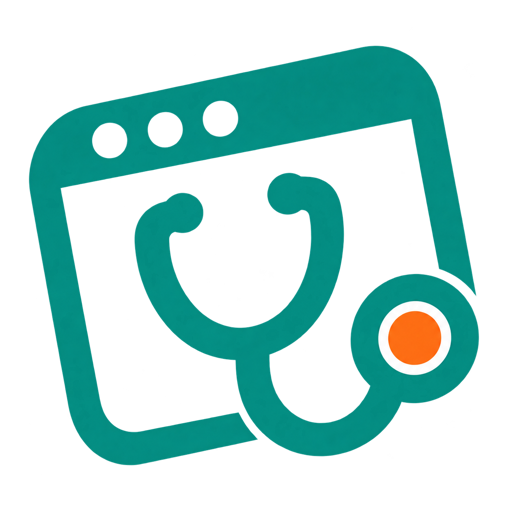
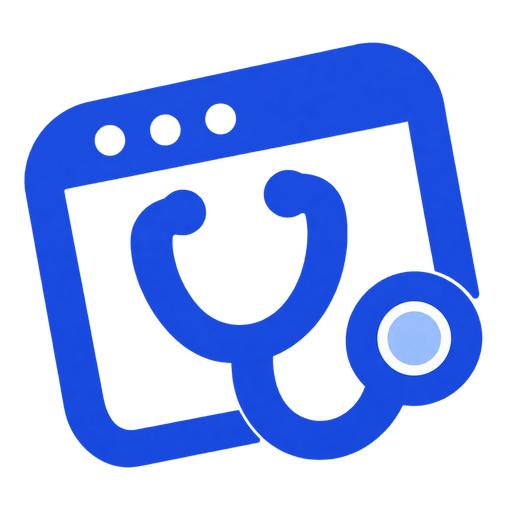
Refresh brand assets and update studio and policy copy

diff --git a/src/data/ja.ts b/src/data/ja.ts
@@ -1,5 +1,6 @@
 import { checklistStoreUrls } from '../data/checklist';
 import { recorderStoreUrls } from '../data/recorder';
+import { operator } from './operator';
 import type { SiteCopy, TextPart } from './types';
 
 const mobile: TextPart = { br: 'mobile' };
@@ -11,7 +12,8 @@ const newTab = '（新しいタブで開く）';
 
 const contactBlock: TextPart[] = [
   '運営：There There Studio（There There）', br,
-  '所在地：茨城県つくば市', br,
+  `所在地：${operator.address}`, br,
+  '電話：', link(operator.phoneHref, operator.phone), br,
   'メール：', mail, br,
   'フォーム：', link('/#contact', 'お問い合わせ'),
 ];
@@ -51,13 +53,13 @@ export const ja = {
     noscript: '送信後、確認画面に移動します。',
   },
   home: {
-    metaTitle: 'There There Studio — つくばのWEBアプリ開発スタジオ',
-    metaDescription: '茨城県つくば市のWEBアプリ開発スタジオ、There There Studio。怪獣スタンプ、レコーダー維新、チェックリスト維新など、暮らしのそばで使いたくなるアプリをつくっています。',
+    metaTitle: 'There There Studio — WEBアプリ開発スタジオ',
+    metaDescription: 'WEBアプリ開発スタジオ、There There Studio。怪獣スタンプ、レコーダー維新、チェックリスト維新など、暮らしのそばで使いたくなるアプリをつくっています。',
     heroTagline: ['暮らしのそばに、', mobile, '使いたくなるアプリを。'],
-    heroDescription: '茨城県つくば市のWEBアプリ開発スタジオ。',
+    heroDescription: 'WEBアプリ開発スタジオ。',
     worksAria: '制作したアプリを見る',
     about: [
-      ['わたしたちは、茨城県つくば市を拠点に、', desktop, '日々の暮らしを少し良くする、', desktop, '使いたくなるアプリをつくる', desktop, '小さな開発スタジオです。'],
+      ['わたしたちは、', desktop, '日々の暮らしを少し良くする、', desktop, '使いたくなるアプリをつくる', desktop, '小さな開発スタジオです。'],
       ['お店を営むこと。音楽を楽しむこと。', br, '自分たちの経験から生まれる気づきを、', desktop, '使う人に寄り添う道具に変えていきます。'],
     ],
     works: [
@@ -186,9 +188,9 @@ export const ja = {
     metaDescription: 'レコーダー維新のプライバシーポリシー。マイクの利用、録音データの端末内保存、共有、バックアップ、データ削除について説明します。',
     label: 'レコーダー維新 / Privacy Policy',
     title: 'プライバシーポリシー',
-    updated: '制定日：2026年9月19日／最終更新日：2026年9月22日',
+    updated: '制定日：2026年9月19日／最終更新日：2026年11月10日',
     sections: [
-      { blocks: [{ p: ['There There（屋号・表示名：There There Studio、所在地：茨城県つくば市。以下「当スタジオ」）は、iOSアプリ「レコーダー維新」（以下「本アプリ」）における情報の取り扱いを、以下のとおり定めます。チェックリスト維新は、', link('/checklist/privacy', '別のプライバシーポリシー'), 'で定めています。'] }] },
+      { blocks: [{ p: [`There There（屋号・表示名：There There Studio、所在地：${operator.address}。以下「当スタジオ」）は、iOSアプリ「レコーダー維新」（以下「本アプリ」）における情報の取り扱いを、以下のとおり定めます。チェックリスト維新は、`, link('/checklist/privacy', '別のプライバシーポリシー'), 'で定めています。'] }] },
       { heading: '1. 基本方針', blocks: [{ p: ['本アプリは、録音・音声処理・再生を端末内で行うパーソナル音声レコーダーです。アカウント登録は不要です。本アプリが録音データを当スタジオのサーバーに自動送信することはありません。'] }] },
       { heading: '2. マイクへのアクセス', blocks: [
         { p: ['録音とリアルタイム・モニタリングのため、利用者の許可を得てマイクにアクセスします。マイクからの音声は、端末内でゲイン調整、イコライザー、ノイズ低減等の処理に利用します。音声処理のために当スタジオや外部のAIサービスへ音声を送信することはありません。'] },
@@ -224,9 +226,9 @@ export const ja = {
     metaDescription: 'チェックリスト維新のプライバシーポリシー。端末内の音声認識、写真、ローカル通知、目録と実行履歴の保存と削除について説明します。',
     label: 'チェックリスト維新 / Privacy Policy',
     title: 'プライバシーポリシー',
-    updated: '制定日：2026年9月22日／最終更新日：2026年9月22日',
+    updated: '制定日：2026年9月22日／最終更新日：2026年11月10日',
     sections: [
-      { blocks: [{ p: ['There There（屋号・表示名：There There Studio、所在地：茨城県つくば市。以下「当スタジオ」）は、iOSアプリ「チェックリスト維新」（以下「本アプリ」）における情報の取り扱いを、以下のとおり定めます。レコーダー維新は、', link('/recorder/privacy', '別のプライバシーポリシー'), 'で定めています。'] }] },
+      { blocks: [{ p: [`There There（屋号・表示名：There There Studio、所在地：${operator.address}。以下「当スタジオ」）は、iOSアプリ「チェックリスト維新」（以下「本アプリ」）における情報の取り扱いを、以下のとおり定めます。レコーダー維新は、`, link('/recorder/privacy', '別のプライバシーポリシー'), 'で定めています。'] }] },
       { heading: '1. 基本方針', blocks: [{ p: ['本アプリは、繰り返す手順を端末内に保存し、実行のたびに記録を残すチェックリストです。アカウント登録、クラウド同期、当スタジオのサーバーへの通信機能はありません。目録、写真、音声、履歴を当スタジオのサーバーへ自動送信することはありません。'] }] },
       { heading: '2. マイクと音声認識', blocks: [
         { p: ['音声モードで項目を読み上げ、音声の合図を認識するために、利用者の許可を得てマイクと音声認識を使用します。読み上げは端末内の音声合成で行います。音声認識は、端末内での認識を必須として行います。音声、認識結果、読み上げ内容を当スタジオや外部のAIサービスへ送信することはありません。'] },
@@ -268,9 +270,9 @@ export const ja = {
     metaDescription: 'There There Studioのウェブサイトとお問い合わせフォームにおける個人情報の取り扱いについて。',
     label: 'Website / Privacy',
     title: 'サイトの個人情報の取り扱い',
-    updated: '最終更新日：2026年9月22日',
+    updated: '最終更新日：2026年11月10日',
     sections: [
-      { blocks: [{ p: ['There There Studio（運営：There There、所在地：茨城県つくば市）は、このウェブサイトおよびお問い合わせフォームで受け取る情報を、以下のとおり取り扱います。アプリ内の情報はアプリごとに別の方針です。', link('/recorder/privacy', 'レコーダー維新のプライバシーポリシー'), 'と、', link('/checklist/privacy', 'チェックリスト維新のプライバシーポリシー'), 'をご覧ください。'] }] },
+      { blocks: [{ p: [`There There Studio（運営：There There、所在地：${operator.address}）は、このウェブサイトおよびお問い合わせフォームで受け取る情報を、以下のとおり取り扱います。アプリ内の情報はアプリごとに別の方針です。`, link('/recorder/privacy', 'レコーダー維新のプライバシーポリシー'), 'と、', link('/checklist/privacy', 'チェックリスト維新のプライバシーポリシー'), 'をご覧ください。'] }] },
       { heading: 'お問い合わせで受け取る情報と利用目的', blocks: [{ p: ['お名前、メールアドレス、店舗名・会社名（任意）、お問い合わせの種類、本文を受け取ります。これらの情報は、お問い合わせへの返信、開発のご相談への対応、アプリのサポートや不具合調査に利用します。'] }] },
       { heading: '利用するサービス', blocks: [{ p: ['本サイトの配信とフォーム処理にはCloudflareを利用し、お問い合わせ内容はGoogle Chatへ送信して当スタジオが確認します。これらのサービスを、サイトの提供およびお問い合わせ対応のために利用します。入力内容を広告目的で販売・提供することはありません。'] }] },
       { heading: 'アクセス情報とCookie', blocks: [{ p: ['サイト配信と不正利用防止のため、CloudflareがIPアドレスやリクエスト情報等を処理する場合があります。お問い合わせの連投制限にはIPアドレスを使用します。本サイト独自の広告・行動解析Cookieは使用していません。'] }] },

diff --git a/src/data/privacy-en.ts b/src/data/privacy-en.ts
@@ -1,11 +1,13 @@
 import type { LegalCopy, TextPart } from './types';
+import { operator } from './operator';
 const br: TextPart = { br: 'always' };
 const link = (href: string, label: string): TextPart => ({ href, label });
 const mail: TextPart = { href: 'mailto:info@therethere.studio', label: 'info@therethere.studio' };
 
 const contactBlock: TextPart[] = [
   'There There Studio (There There)', br,
-  'Tsukuba, Ibaraki, Japan', br,
+  operator.addressEn, br,
+  'Phone: ', link(operator.phoneHref, operator.phone), br,
   'Email: ', mail, br,
   'Form: ', link('/#contact', 'Contact'),
 ];
@@ -16,9 +18,9 @@ export const englishPolicies = {
     metaDescription: 'The Recorder Ishin privacy policy. Microphone use, on-device recordings, sharing, backup, and deletion.',
     label: 'Recorder Ishin / Privacy Policy',
     title: 'Privacy policy',
-    updated: 'Adopted September 19, 2026. Last updated September 22, 2026.',
+    updated: 'Adopted September 19, 2026. Last updated November 10, 2026.',
     sections: [
-      { blocks: [{ p: ['There There (trade name and display name: There There Studio; location: Tsukuba, Ibaraki, Japan; “the studio”) sets out below how information is handled in the iOS app Recorder Ishin (レコーダー維新; “the app”). Checklist Ishin is covered by ', link('/checklist/privacy', 'a separate privacy policy'), '.'] }] },
+      { blocks: [{ p: [`There There (trade name and display name: There There Studio; location: ${operator.addressEn}; “the studio”) sets out below how information is handled in the iOS app Recorder Ishin (レコーダー維新; “the app”). Checklist Ishin is covered by `, link('/checklist/privacy', 'a separate privacy policy'), '.'] }] },
       { heading: '1. Approach', blocks: [{ p: ['The app is a personal audio recorder. Recording, audio processing, and playback happen on the device. No account is required. The app does not automatically send recordings to the studio’s servers.'] }] },
       { heading: '2. Microphone access', blocks: [
         { p: ['To record and to monitor in real time, the app uses the microphone with your permission. Audio from the microphone is processed on the device, including gain, equalization, and noise reduction. Audio is not sent to the studio or to an outside AI service for processing.'] },
@@ -58,9 +60,9 @@ export const englishPolicies = {
     metaDescription: 'The Checklist Ishin privacy policy. On-device speech recognition, photos, local notifications, and how lists and run history are stored and deleted.',
     label: 'Checklist Ishin / Privacy Policy',
     title: 'Privacy policy',
-    updated: 'Adopted September 22, 2026. Last updated September 22, 2026.',
+    updated: 'Adopted September 22, 2026. Last updated November 10, 2026.',
     sections: [
-      { blocks: [{ p: ['There There (trade name and display name: There There Studio; location: Tsukuba, Ibaraki, Japan; “the studio”) sets out below how information is handled in the iOS app Checklist Ishin (チェックリスト維新; “the app”). Recorder Ishin is covered by ', link('/recorder/privacy', 'a separate privacy policy'), '.'] }] },
+      { blocks: [{ p: [`There There (trade name and display name: There There Studio; location: ${operator.addressEn}; “the studio”) sets out below how information is handled in the iOS app Checklist Ishin (チェックリスト維新; “the app”). Recorder Ishin is covered by `, link('/recorder/privacy', 'a separate privacy policy'), '.'] }] },
       { heading: '1. Approach', blocks: [{ p: ['The app stores repeated procedures on the device and keeps a record of each run. There is no account, no cloud sync, and no connection to the studio’s servers. Lists, photos, audio, and history are not automatically sent to the studio’s servers.'] }] },
       { heading: '2. Microphone and speech recognition', blocks: [
         { p: ['In voice mode, the app uses the microphone and speech recognition, with your permission, to read items aloud and to recognize spoken cues. Speech is synthesized on the device. Recognition is required to run on the device. Audio, recognition results, and the spoken text are not sent to the studio or to an outside AI service.'] },
@@ -102,9 +104,9 @@ export const englishPolicies = {
     metaDescription: 'How There There Studio handles personal information on this website and in the contact form.',
     label: 'Website / Privacy',
     title: 'How this site handles personal information',
-    updated: 'Last updated September 22, 2026.',
+    updated: 'Last updated November 10, 2026.',
     sections: [
-      { blocks: [{ p: ['There There Studio (operated by There There; location: Tsukuba, Ibaraki, Japan) handles information received through this website and the contact form as follows. Information inside each app follows that app’s own policy. See the ', link('/recorder/privacy', 'Recorder Ishin privacy policy'), ' and the ', link('/checklist/privacy', 'Checklist Ishin privacy policy'), '.'] }] },
+      { blocks: [{ p: [`There There Studio (operated by There There; location: ${operator.addressEn}) handles information received through this website and the contact form as follows. Information inside each app follows that app’s own policy. See the `, link('/recorder/privacy', 'Recorder Ishin privacy policy'), ' and the ', link('/checklist/privacy', 'Checklist Ishin privacy policy'), '.'] }] },
       { heading: 'What the contact form receives, and why', blocks: [{ p: ['The form receives your name, email address, shop or company name (optional), topic, and message. This information is used to reply, to respond to a development inquiry, and to support an app or investigate a problem.'] }] },
       { heading: 'Services used', blocks: [{ p: ['The site is delivered and the form is processed with Cloudflare. The message is sent to Google Chat so the studio can read it. These services are used to provide the site and to respond to inquiries. What you submit is not sold or provided for advertising.'] }] },
       { heading: 'Access information and cookies', blocks: [{ p: ['To deliver the site and to limit abuse, Cloudflare may process an IP address, request information, and similar data. The contact rate limit uses the IP address. This site does not use its own advertising or analytics cookies.'] }] },

diff --git a/src/styles/marketing.css b/src/styles/marketing.css
@@ -13,6 +13,15 @@
   box-shadow: none;
   background: white;
 }
+.brand img.clinic-logo {
+  display: block;
+  width: 240px;
+  height: auto;
+  border: 0;
+  border-radius: 0;
+  padding: 0;
+  box-shadow: none;
+}
 .studio-wordmark-image {
   display: block;
   width: 100%;
@@ -27,6 +36,9 @@
   .brand img.studio-logo {
     width: 160px;
   }
+  .brand img.clinic-logo {
+    width: 198px;
+  }
   .studio-wordmark-image {
     margin-bottom: 24px;
   }
@@ -34,6 +46,9 @@
 .marketing-page .site-header {
   padding: 20px max(28px, calc((100vw - 1240px) / 2));
   min-height: 94px;
+}
+.clinic-page .site-header {
+  padding-block: 8px;
 }
 .marketing-page .site-header .brand > span:last-child {
   font-size: 25px;
@@ -816,18 +831,13 @@
   margin-bottom: 22px;
 }
 .featured-clinic h3 {
-  display: flex;
-  gap: 12px;
-  align-items: center;
-  font-size: 34px;
-  line-height: 1.4;
-  letter-spacing: -0.06em;
   margin: 0 0 18px;
 }
 .featured-clinic h3 > img {
-  flex-shrink: 0;
-  width: 50px;
-  height: 50px;
+  display: block;
+  width: 100%;
+  max-width: 400px;
+  height: auto;
   mix-blend-mode: multiply;
 }
 .featured-clinic h4 {
@@ -839,15 +849,7 @@
 .featured-description {
   font-size: 15px;
   line-height: 1.95;
-}
-.featured-price {
-  font-size: 13px;
-  margin-top: 25px;
-  margin-bottom: 18px;
-}
-.featured-price strong {
-  font-family: var(--display);
-  font-size: 20px;
+  margin-bottom: 24px;
 }
 .featured-clinic .button {
   font-size: 14px;
@@ -955,13 +957,6 @@
   .featured-clinic {
     padding: 30px;
     gap: 30px;
-  }
-  .featured-clinic h3 {
-    font-size: 28px;
-  }
-  .featured-clinic h3 > img {
-    width: 42px;
-    height: 42px;
   }
   .featured-clinic h4 {
     font-size: 20px;
@@ -1145,13 +1140,6 @@
     gap: 30px;
     grid-template-columns: 1fr 1fr;
   }
-  .featured-clinic h3 {
-    font-size: 27px;
-  }
-  .featured-clinic h3 > img {
-    width: 40px;
-    height: 40px;
-  }
   .featured-clinic h4 {
     font-size: 21px;
   }
@@ -1194,6 +1182,9 @@
     padding: 16px 20px;
     min-height: 80px;
     gap: 12px;
+  }
+  .clinic-page .site-header {
+    padding-block: 8px;
   }
   .marketing-page .site-header .brand > span:last-child {
     font-size: 21px;
@@ -1556,27 +1547,12 @@
     font-size: 10px !important;
     margin-bottom: 20px;
   }
-  .featured-clinic h3 {
-    font-size: 27px;
-    gap: 8px;
-  }
-  .featured-clinic h3 > img {
-    width: 36px;
-    height: 36px;
-  }
   .featured-clinic h4 {
     font-size: 21px;
     margin-bottom: 15px;
   }
   .featured-description {
     font-size: 14px;
-  }
-  .featured-price {
-    font-size: 12px;
-    margin-top: 20px;
-  }
-  .featured-price strong {
-    font-size: 20px;
   }
   .featured-clinic .button {
     font-size: 13px;
@@ -1652,9 +1628,6 @@
   }
   .featured-clinic {
     padding-inline: 17px;
-  }
-  .featured-clinic h3 {
-    font-size: 23px;
   }
   .studio-home .studio-hero-visual {
     height: 335px;

diff --git a/src/data/operator.ts b/src/data/operator.ts
@@ -1,0 +1,6 @@
+export const operator = {
+  address: '〒107-0061 東京都港区北青山1-3-3 三橋ビル 3階',
+  addressEn: 'Mitsuhashi Building 3F, 1-3-3 Kita-Aoyama, Minato-ku, Tokyo 107-0061, Japan',
+  phone: '080-2305-3157',
+  phoneHref: 'tel:08023053157',
+} as const;
